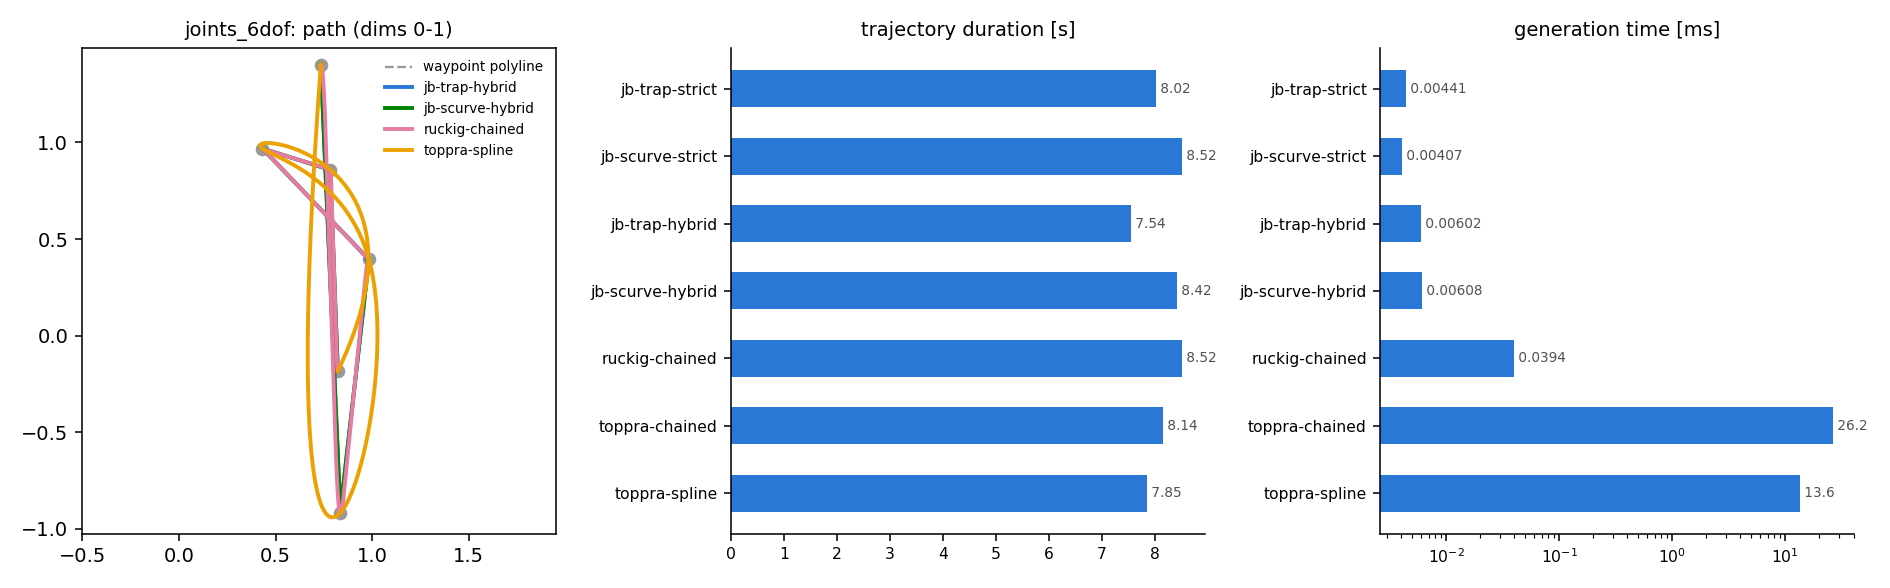
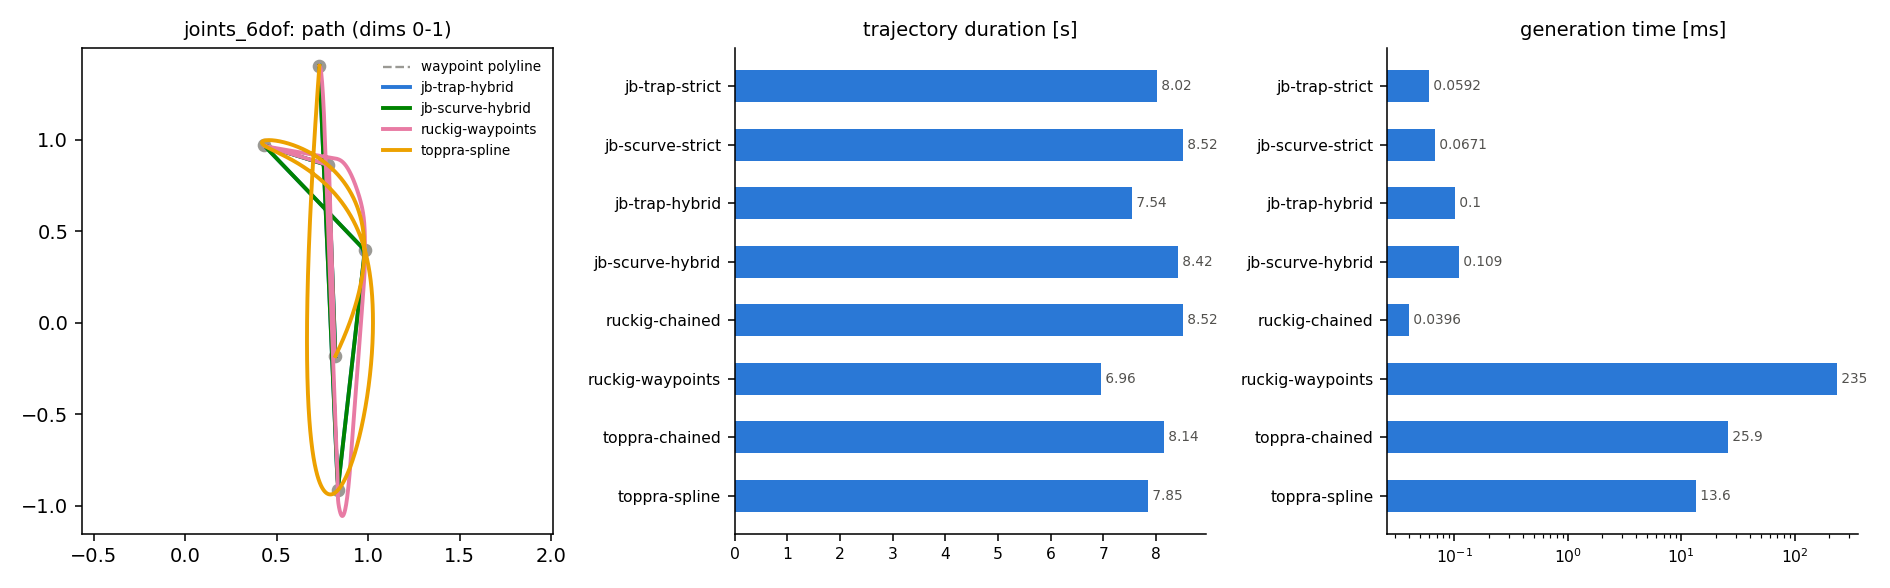
add ruckig intermediate-waypoint benchmark
Community edition solves it via ruckig's cloud API; noted in report.
Compute column now 3 significant figures.

diff --git a/benchmarks/adapters.py b/benchmarks/adapters.py
@@ -44,6 +44,25 @@ def _time_ms(fn, repeats: int = 3):
     return out, best
 
 
+def _sample_ruckig_trajectories(trajs, dof: int, dt: float):
+    """Sample a list of chained ruckig trajectories on a uniform grid."""
+    durations = np.array([tr.duration for tr in trajs])
+    starts = np.concatenate([[0.0], np.cumsum(durations)])
+    total = float(starts[-1])
+
+    ts = np.arange(0.0, total, dt)
+    if ts[-1] < total:
+        ts = np.append(ts, total)
+    q = np.empty((len(ts), dof))
+    qd = np.empty_like(q)
+    qdd = np.empty_like(q)
+    idx = np.clip(np.searchsorted(starts, ts, side="right") - 1, 0, len(trajs) - 1)
+    for i, (t, j) in enumerate(zip(ts, idx)):
+        pos, vel, acc = trajs[j].at_time(min(t - starts[j], trajs[j].duration))
+        q[i], qd[i], qdd[i] = pos, vel, acc
+    return total, ts, q, qd, qdd
+
+
 def run_justblend(name, W, v_max, a_max, j_max, blend_radius, corner_handling, dt) -> BenchResult:
     scurve = j_max is not None
     gen = (jb.SCurveTrajectoryGenerator if scurve else jb.TrapezoidalTrajectoryGenerator)(dim=W.shape[1])
@@ -85,20 +104,42 @@ def run_ruckig_chained(name, W, v_max, a_max, j_max, dt) -> BenchResult:
         return trajs
 
     trajs, ms = _time_ms(build)
-    durations = np.array([tr.duration for tr in trajs])
-    starts = np.concatenate([[0.0], np.cumsum(durations)])
-    total = float(starts[-1])
+    total, ts, q, qd, qdd = _sample_ruckig_trajectories(trajs, dof, dt)
+    return BenchResult(name, total, ms, ts, q, qd, qdd)
 
-    ts = np.arange(0.0, total, dt)
-    if ts[-1] < total:
-        ts = np.append(ts, total)
-    q = np.empty((len(ts), dof))
-    qd = np.empty_like(q)
-    qdd = np.empty_like(q)
-    idx = np.clip(np.searchsorted(starts, ts, side="right") - 1, 0, len(trajs) - 1)
-    for i, (t, j) in enumerate(zip(ts, idx)):
-        pos, vel, acc = trajs[j].at_time(min(t - starts[j], trajs[j].duration))
-        q[i], qd[i], qdd[i] = pos, vel, acc
+
+def run_ruckig_waypoints(name, W, v_max, a_max, j_max, dt) -> BenchResult:
+    """Ruckig intermediate-waypoint mode: passes waypoints without stopping.
+
+    Uses InputParameter.intermediate_positions. The community edition solves
+    this by calling ruckig's cloud API (Ruckig Pro solves it locally), so
+    generation time includes a network round trip and the scenario data
+    leaves the machine.
+    """
+    from ruckig import InputParameter, Result, Ruckig
+    from ruckig import Trajectory as RuckigTrajectory
+
+    dof = W.shape[1]
+    n_intermediate = W.shape[0] - 2
+
+    def build():
+        otg = Ruckig(dof, 0.01, n_intermediate)
+        inp = InputParameter(dof)
+        inp.current_position = list(W[0])
+        inp.intermediate_positions = [list(w) for w in W[1:-1]]
+        inp.target_position = list(W[-1])
+        inp.max_velocity = list(v_max)
+        inp.max_acceleration = list(a_max)
+        inp.max_jerk = list(j_max)
+        traj = RuckigTrajectory(dof, n_intermediate)
+        res = otg.calculate(inp, traj)
+        if res not in (Result.Working, Result.Finished):
+            raise RuntimeError(f"ruckig waypoint calculation failed: {res}")
+        return traj
+
+    # Single run: the community edition round-trips to the cloud per call.
+    traj, ms = _time_ms(build, repeats=1)
+    total, ts, q, qd, qdd = _sample_ruckig_trajectories([traj], dof, dt)
     return BenchResult(name, total, ms, ts, q, qd, qdd)
 
 

diff --git a/benchmarks/run.py b/benchmarks/run.py
@@ -23,8 +23,9 @@ DATA = os.path.join(HERE, "..", "tests", "data", "waypoints.json")
 PLOTS_DIR = os.path.join(HERE, "plots")
 
 # Methods overlaid on the path plots: only those whose geometry differs from
-# the waypoint polyline (strict/chained methods follow it exactly).
-PATH_PLOT_METHODS = ("jb-scurve-hybrid", "jb-trap-hybrid", "ruckig-chained", "toppra-spline")
+# the waypoint polyline (strict/chained methods follow it exactly). Capped at
+# four series to match the validated all-pairs palette slots.
+PATH_PLOT_METHODS = ("jb-scurve-hybrid", "jb-trap-hybrid", "ruckig-waypoints", "toppra-spline")
 
 # Categorical palette (light mode), fixed slot order; single-hue bars use slot 1.
 SERIES_COLOURS = ("#2a78d6", "#008300", "#e87ba4", "#eda100")
@@ -125,6 +126,7 @@ def run_scenario(sc: Scenario) -> list[BenchResult]:
             )
     if sc.j_max is not None:
         add(lambda: adapters.run_ruckig_chained("ruckig-chained", sc.W, sc.v_max, sc.a_max, sc.j_max, sc.dt))
+        add(lambda: adapters.run_ruckig_waypoints("ruckig-waypoints", sc.W, sc.v_max, sc.a_max, sc.j_max, sc.dt))
     add(lambda: adapters.run_toppra_chained("toppra-chained", sc.W, sc.v_max, sc.a_max, sc.dt))
     add(lambda: adapters.run_toppra_spline("toppra-spline", sc.W, sc.v_max, sc.a_max, sc.dt))
     return results
@@ -197,11 +199,14 @@ python benchmarks/run.py [--dt 0.001]
 | jb-scurve-strict | jerk-limited S-curve | full stop at every waypoint | exact polyline |
 | jb-scurve-hybrid | jerk-limited S-curve | Hermite blends where feasible | polyline with rounded corners |
 | ruckig-chained | jerk-limited | full stop at every waypoint | unconstrained between waypoints (per-axis profiles) |
+| ruckig-waypoints | jerk-limited | passes through waypoints at speed | unconstrained (per-axis profiles through waypoints) |
 | toppra-chained | vel/acc time-optimal | full stop at every waypoint | exact polyline |
 | toppra-spline | vel/acc time-optimal | passes through waypoints at speed | cubic spline through waypoints |
 
-Intermediate-waypoint support in ruckig is a Pro feature, so the community
-edition is chained rest-to-rest per segment. toppra has no jerk constraint.
+ruckig-waypoints uses `intermediate_positions`; the community edition solves
+it via ruckig's **cloud API** (Ruckig Pro solves it locally), so its
+generation time includes a network round trip and the scenario data leaves
+the machine. toppra has no jerk constraint.
 
 ## Results
 """
@@ -229,6 +234,9 @@ NOTES = """\
 - ruckig-chained moves each axis independently between waypoints, so its
   path leaves the polyline (see polyline dev) even though it stops at every
   waypoint.
+- ruckig-waypoints passes through every waypoint without stopping (wp miss
+  ~0) but its path between waypoints is unconstrained; its generation time
+  is dominated by the cloud-API round trip in the community edition.
 - jb-*-hybrid rounds corners; the deviation is bounded and reported by
   `Trajectory::maxCornerDeviation()`.
 - toppra-spline follows a smooth spline through all waypoints without
@@ -256,7 +264,7 @@ def render(dt: float) -> str:
             miss = waypoint_miss(r.q, sc.W)
             jerk_s = "-" if np.isnan(jerk) else f"{jerk:.2f}"
             lines.append(
-                f"| {r.name} | {r.duration:.3f} | {r.compute_ms:.2f} | {vel:.3f} | {acc:.3f} "
+                f"| {r.name} | {r.duration:.3f} | {r.compute_ms:.3g} | {vel:.3f} | {acc:.3f} "
                 f"| {jerk_s} | {dev:.4f} | {miss:.4f} |\n"
             )
         try:

diff --git a/benchmarks/README.md b/benchmarks/README.md
@@ -22,11 +22,14 @@ python benchmarks/run.py [--dt 0.001]
 | jb-scurve-strict | jerk-limited S-curve | full stop at every waypoint | exact polyline |
 | jb-scurve-hybrid | jerk-limited S-curve | Hermite blends where feasible | polyline with rounded corners |
 | ruckig-chained | jerk-limited | full stop at every waypoint | unconstrained between waypoints (per-axis profiles) |
+| ruckig-waypoints | jerk-limited | passes through waypoints at speed | unconstrained (per-axis profiles through waypoints) |
 | toppra-chained | vel/acc time-optimal | full stop at every waypoint | exact polyline |
 | toppra-spline | vel/acc time-optimal | passes through waypoints at speed | cubic spline through waypoints |
 
-Intermediate-waypoint support in ruckig is a Pro feature, so the community
-edition is chained rest-to-rest per segment. toppra has no jerk constraint.
+ruckig-waypoints uses `intermediate_positions`; the community edition solves
+it via ruckig's **cloud API** (Ruckig Pro solves it locally), so its
+generation time includes a network round trip and the scenario data leaves
+the machine. toppra has no jerk constraint.
 
 ## Results
 
@@ -34,13 +37,14 @@ edition is chained rest-to-rest per segment. toppra has no jerk constraint.
 
 | method | duration [s] | compute [ms] | vel | acc | jerk | polyline dev | wp miss |
 |---|---|---|---|---|---|---|---|
-| jb-trap-strict | 5.180 | 0.00 | 1.000 | 1.000 | 233.33 | 0.0000 | 0.0000 |
-| jb-scurve-strict | 5.736 | 0.00 | 1.000 | 1.000 | 1.00 | 0.0000 | 0.0000 |
-| jb-trap-hybrid | 4.738 | 0.00 | 1.000 | 1.000 | 150.00 | 0.0373 | 0.0640 |
-| jb-scurve-hybrid | 5.655 | 0.01 | 1.000 | 1.000 | 1.00 | 0.0280 | 0.0480 |
-| ruckig-chained | 5.736 | 0.03 | 1.000 | 1.000 | 1.00 | 0.0445 | 0.0000 |
-| toppra-chained | 5.340 | 14.31 | 1.000 | 1.000 | 110.83 | 0.0000 | 0.0000 |
-| toppra-spline | 5.095 | 7.00 | 1.001 | 1.000 | 99.37 | 0.4942 | 0.0007 |
+| jb-trap-strict | 5.180 | 0.046 | 1.000 | 1.000 | 233.33 | 0.0000 | 0.0000 |
+| jb-scurve-strict | 5.736 | 0.0514 | 1.000 | 1.000 | 1.00 | 0.0000 | 0.0000 |
+| jb-trap-hybrid | 4.738 | 0.075 | 1.000 | 1.000 | 150.00 | 0.0373 | 0.0640 |
+| jb-scurve-hybrid | 5.655 | 0.0839 | 1.000 | 1.000 | 1.00 | 0.0280 | 0.0480 |
+| ruckig-chained | 5.736 | 0.0419 | 1.000 | 1.000 | 1.00 | 0.0445 | 0.0000 |
+| ruckig-waypoints | 4.628 | 225 | 1.000 | 1.000 | 1.00 | 0.3072 | 0.0005 |
+| toppra-chained | 5.340 | 14.4 | 1.000 | 1.000 | 110.83 | 0.0000 | 0.0000 |
+| toppra-spline | 5.095 | 7.04 | 1.001 | 1.000 | 99.37 | 0.4942 | 0.0007 |
 
 ![demo_3d](plots/demo_3d.png)
 
@@ -48,13 +52,14 @@ edition is chained rest-to-rest per segment. toppra has no jerk constraint.
 
 | method | duration [s] | compute [ms] | vel | acc | jerk | polyline dev | wp miss |
 |---|---|---|---|---|---|---|---|
-| jb-trap-strict | 3.730 | 0.00 | 1.000 | 1.000 | 239.29 | 0.0000 | 0.0000 |
-| jb-scurve-strict | 4.173 | 0.00 | 1.000 | 1.000 | 1.00 | 0.0000 | 0.0000 |
-| jb-trap-hybrid | 3.475 | 0.00 | 1.000 | 1.000 | 155.86 | 0.0246 | 0.0459 |
-| jb-scurve-hybrid | 4.243 | 0.01 | 1.000 | 1.000 | 1.00 | 0.0185 | 0.0344 |
-| ruckig-chained | 4.173 | 0.02 | 1.000 | 1.000 | 1.00 | 0.0329 | 0.0000 |
-| toppra-chained | 3.817 | 11.54 | 1.000 | 1.000 | 122.01 | 0.0000 | 0.0000 |
-| toppra-spline | 3.344 | 4.37 | 1.001 | 1.000 | 115.78 | 0.2681 | 0.0003 |
+| jb-trap-strict | 3.730 | 0.0366 | 1.000 | 1.000 | 239.29 | 0.0000 | 0.0000 |
+| jb-scurve-strict | 4.173 | 0.0427 | 1.000 | 1.000 | 1.00 | 0.0000 | 0.0000 |
+| jb-trap-hybrid | 3.475 | 0.0563 | 1.000 | 1.000 | 155.86 | 0.0246 | 0.0459 |
+| jb-scurve-hybrid | 4.243 | 0.0638 | 1.000 | 1.000 | 1.00 | 0.0185 | 0.0344 |
+| ruckig-chained | 4.173 | 0.0185 | 1.000 | 1.000 | 1.00 | 0.0329 | 0.0000 |
+| ruckig-waypoints | 3.229 | 1.29e+03 | 1.000 | 1.000 | 1.00 | 0.2764 | 0.0003 |
+| toppra-chained | 3.817 | 11.6 | 1.000 | 1.000 | 122.01 | 0.0000 | 0.0000 |
+| toppra-spline | 3.344 | 4.41 | 1.001 | 1.000 | 115.78 | 0.2681 | 0.0003 |
 
 ![two_segments_2d](plots/two_segments_2d.png)
 
@@ -62,13 +67,14 @@ edition is chained rest-to-rest per segment. toppra has no jerk constraint.
 
 | method | duration [s] | compute [ms] | vel | acc | jerk | polyline dev | wp miss |
 |---|---|---|---|---|---|---|---|
-| jb-trap-strict | 8.018 | 0.00 | 1.000 | 1.000 | 4317.20 | 0.0000 | 0.0000 |
-| jb-scurve-strict | 8.518 | 0.00 | 1.000 | 1.000 | 1.00 | 0.0000 | 0.0000 |
-| jb-trap-hybrid | 7.541 | 0.01 | 1.000 | 1.000 | 132.12 | 0.0372 | 0.0671 |
-| jb-scurve-hybrid | 8.423 | 0.01 | 1.000 | 1.000 | 1.00 | 0.0280 | 0.0503 |
-| ruckig-chained | 8.518 | 0.04 | 1.000 | 1.000 | 1.00 | 0.0960 | 0.0000 |
-| toppra-chained | 8.143 | 26.21 | 1.000 | 1.000 | 91.21 | 0.0000 | 0.0000 |
-| toppra-spline | 7.849 | 13.59 | 1.001 | 1.004 | 79.50 | 1.1988 | 0.0005 |
+| jb-trap-strict | 8.018 | 0.0592 | 1.000 | 1.000 | 4317.20 | 0.0000 | 0.0000 |
+| jb-scurve-strict | 8.518 | 0.0671 | 1.000 | 1.000 | 1.00 | 0.0000 | 0.0000 |
+| jb-trap-hybrid | 7.541 | 0.1 | 1.000 | 1.000 | 132.12 | 0.0372 | 0.0671 |
+| jb-scurve-hybrid | 8.423 | 0.109 | 1.000 | 1.000 | 1.00 | 0.0280 | 0.0503 |
+| ruckig-chained | 8.518 | 0.0396 | 1.000 | 1.000 | 1.00 | 0.0960 | 0.0000 |
+| ruckig-waypoints | 6.959 | 235 | 1.000 | 1.000 | 1.00 | 0.8603 | 0.0008 |
+| toppra-chained | 8.143 | 25.9 | 1.000 | 1.000 | 91.21 | 0.0000 | 0.0000 |
+| toppra-spline | 7.849 | 13.6 | 1.001 | 1.004 | 79.50 | 1.1988 | 0.0005 |
 
 ![joints_6dof](plots/joints_6dof.png)
 
@@ -94,6 +100,9 @@ edition is chained rest-to-rest per segment. toppra has no jerk constraint.
 - ruckig-chained moves each axis independently between waypoints, so its
   path leaves the polyline (see polyline dev) even though it stops at every
   waypoint.
+- ruckig-waypoints passes through every waypoint without stopping (wp miss
+  ~0) but its path between waypoints is unconstrained; its generation time
+  is dominated by the cloud-API round trip in the community edition.
 - jb-*-hybrid rounds corners; the deviation is bounded and reported by
   `Trajectory::maxCornerDeviation()`.
 - toppra-spline follows a smooth spline through all waypoints without